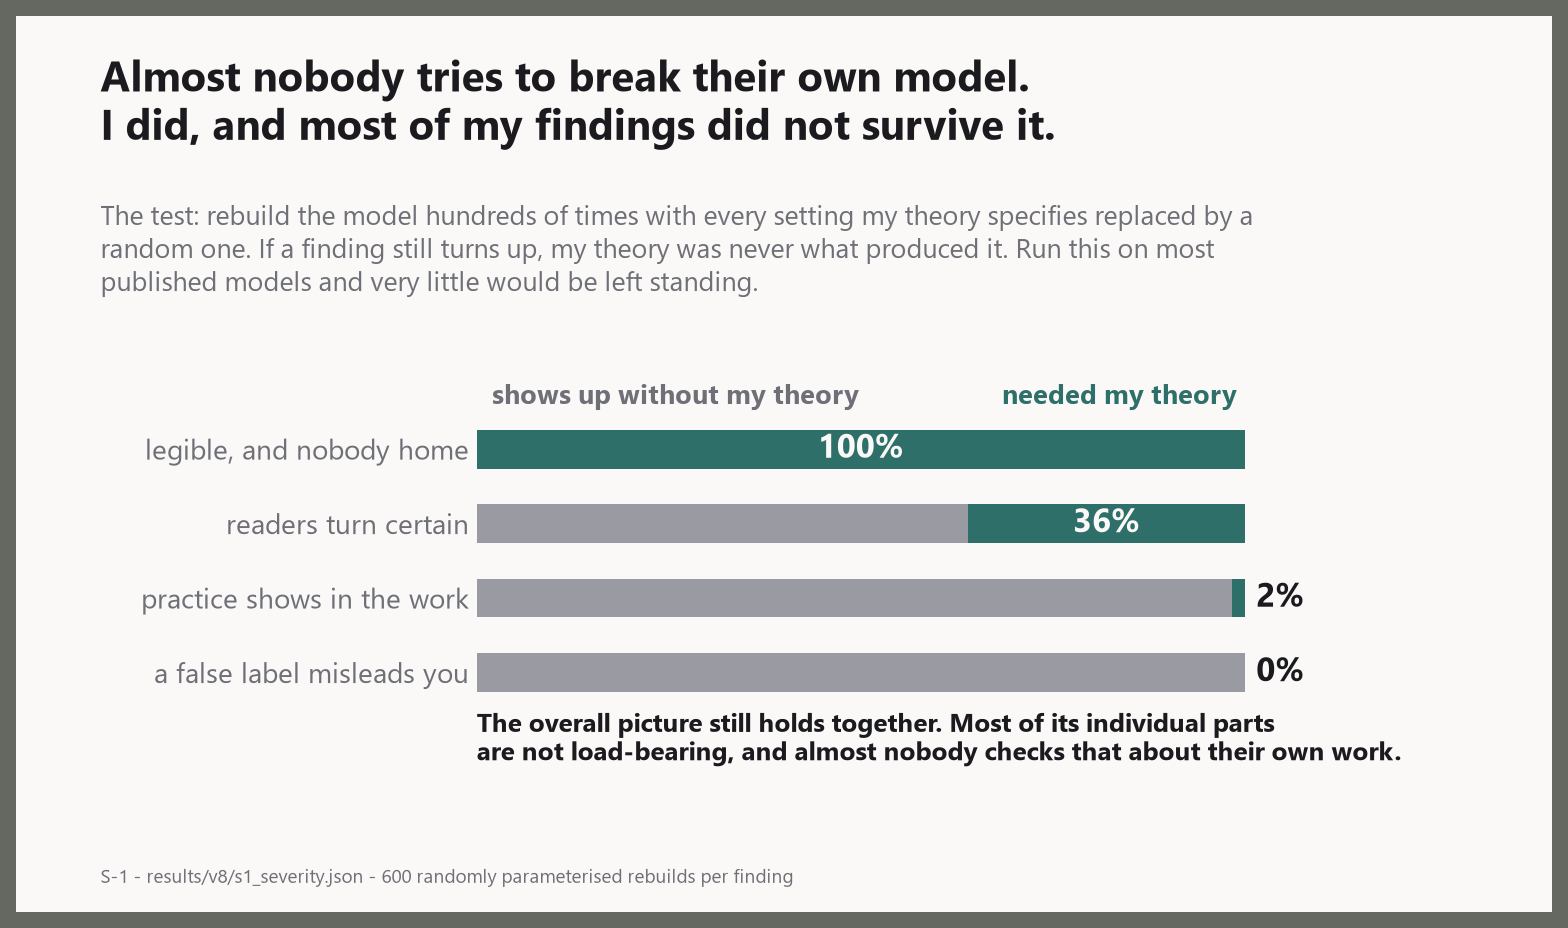
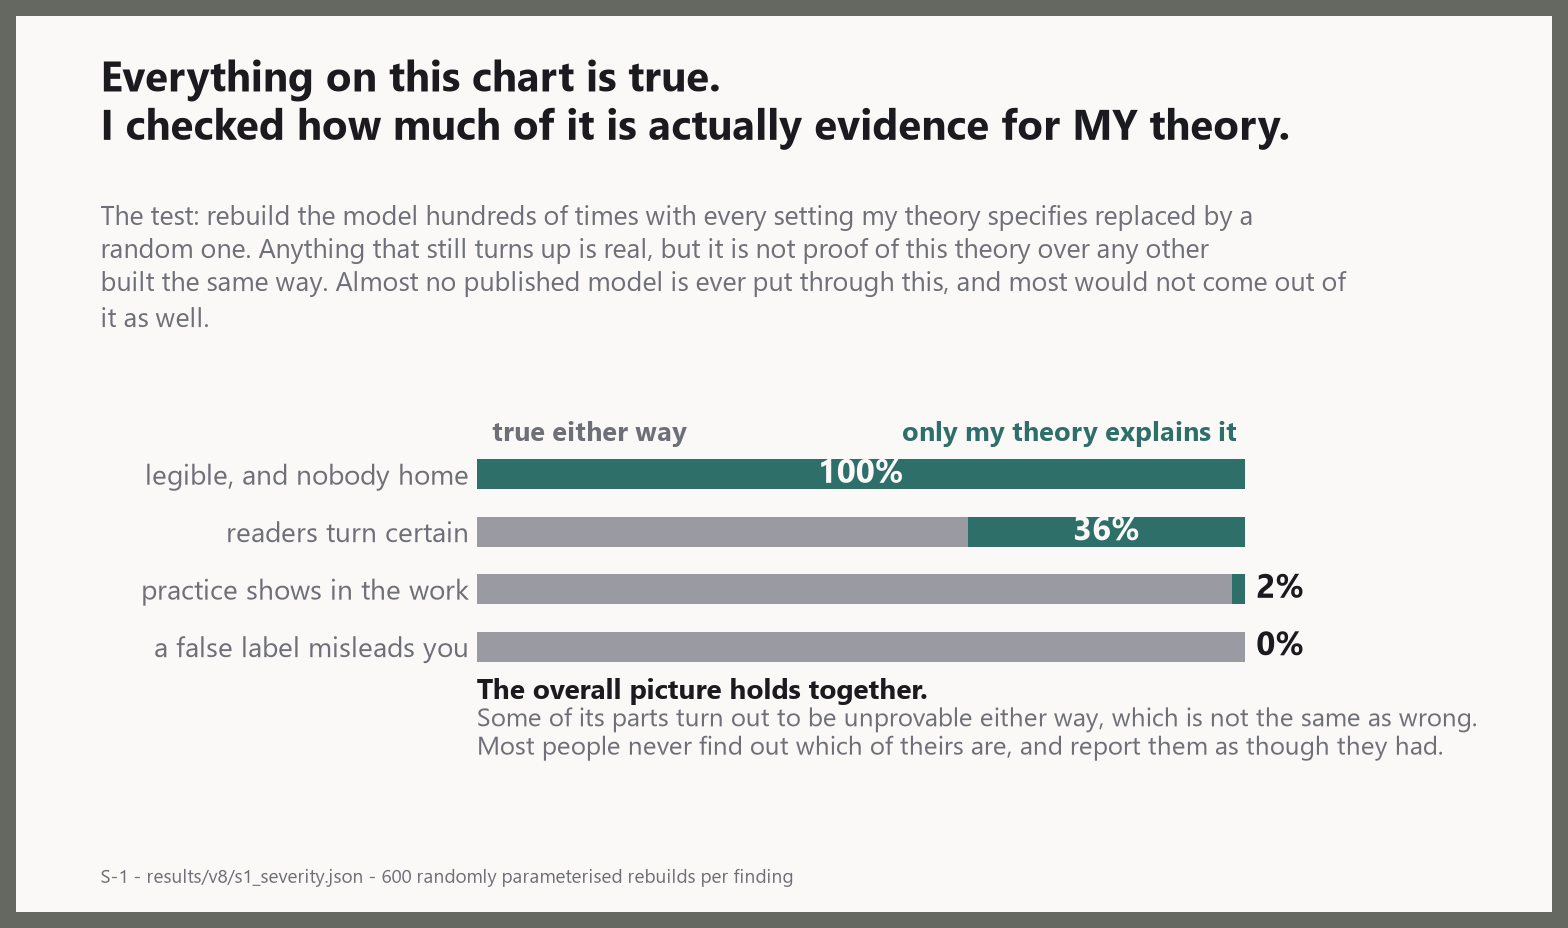
Plate 22 stops sounding like a retreat, and plate 3 shows the finding it had
PLATE 22. "Most of my findings did not survive it" was wrong, and wrong in the
direction that costs the most: it implies negative results. Nothing here failed.
Every finding on that chart is TRUE. What the test establishes is which of them
are distinguishing evidence for this theory rather than for any model built the
same way, and a grey bar means unprovable either way, not refuted.

So the title now says that: everything on the chart is true, and I checked how
much of it is actually evidence for mine. The key follows, "true either way"
against "only my theory explains it", and the subtitle carries the part that
does the work on a feed, which is that almost no published model is put through
this at all and most would not come out of it as well.

The closing line now plays the Ghost Scale on the plate itself. The claim a
person stands behind is black and bold; the qualification is grey and unbolded,
which is this repository's own mark for prose with less of a person in it. It
also says the thing that was missing: most people never find out which of their
results are unprovable, and report them as though they had.

PLATE 3 had a wrong bar and it was hiding the actual result. The faded series
showed free attention, which contradicts E19, this project's own headline that
readers KEEP paying on foreign content. E37 scores attention after a forced
phase and lands in a different regime, so the two plates were arguing with each
other in the same carousel.
[…]

Changed region(s): [[0.0938, 0.4062, 0.9375, 0.8438], [0.0625, 0.0625, 0.8125, 0.1562], [0.0625, 0.25, 0.875, 0.375]]

diff --git a/scripts/make_walkthrough_plates.py b/scripts/make_walkthrough_plates.py
@@ -115,29 +115,53 @@ def plate_03_the_wall():
     c = d["cells"]
     order = [("human", "Made by a person", HUMAN),
              ("foreign", "Built by an unconstrained\nartificial mind", COOL),
-             ("noninvertible", "Reads perfectly.\nNo one to find.", MACHINE)]
+             ("noninvertible", "Reads perfectly.\nNo one to find.\n(an almanac, a spreadsheet,\na page of specs)", MACHINE)]
+
+    # THE MEASURE CHANGED, AND THE OLD ONE WAS BURYING THE FINDING.
+    #
+    # This plate used to show how-lost-you-are beside how-much-you-kept-looking. The second bar was
+    # a problem twice over. It contradicted E19, which is this project's own headline that readers
+    # KEEP paying on foreign content, because E37 scores free attention after a forced phase and
+    # lands in a different regime. And it spent half the plate on a channel that is not what the
+    # wall is about.
+    #
+    # What the wall actually is, in E37's own numbers: foreign content leaves the reader lost AND
+    # AWARE of it. The wall leaves the reader feeling almost as settled as genuine human work while
+    # being further from the truth than the foreign case. Feeling resolved and being wrong is the
+    # signature, and it is the sentence people actually say.
+    upt = [float(c[k]["error_reduction"]) for k, _, _ in order]
     ent = [float(c[k]["final_entropy"]) for k, _, _ in order]
-    eng = [float(c[k]["engaged_fraction"]) for k, _, _ in order]
+    logn = float(np.log(4))
+    settled = [1.0 - e / logn for e in ent]
 
     fig, ax = plate(
         "\"I read every word and nobody was there\"\nis its own kind of failure.",
-        "It is not that the words are hard. Every one of them is familiar. It is that no maker can be\nreconstructed from them, and that produces a signature neither other condition does.",
-        "E37 · results/v6/e37_wall.json · how unresolved the reader is left, and how long it keeps trying")
+        "It is not that the words are hard. Every one of them is familiar. It is that no maker can "
+        "be reconstructed from them, so the reader finishes feeling settled and is further from the "
+        "truth than when it started.",
+        "E37 · results/v6/e37_wall.json · how much closer to the maker's real intent the reader ends up")
+
     xs = np.arange(3)
-    w = 0.36
-    b1 = ax.bar(xs - w / 2, ent, width=w, color=[o[2] for o in order], alpha=0.95)
-    b2 = ax.bar(xs + w / 2, eng, width=w, color=[o[2] for o in order], alpha=0.42)
+    bars = ax.bar(xs, upt, width=0.5, color=[o[2] for o in order])
+    bar_labels(ax, bars, upt, fmt="{:+.2f}", fontsize=14, color=INK)
+    zero_line(ax)
     ax.set_xticks(xs)
     ax.set_xticklabels([o[1] for o in order], fontsize=11)
-    bar_labels(ax, b1, ent, fmt="{:.2f}", fontsize=11, color=INK)
-    bar_labels(ax, b2, eng, fmt="{:.2f}", fontsize=11, color=MUTED)
-    annotate(ax, -0.32, max(ent) * 1.17, "solid bars: how confused it left you",
-             color=INK, fontsize=11, weight="bold", ha="left")
-    annotate(ax, 0.92, max(ent) * 1.17, "faded bars: how much attention you spent",
-             color=MUTED, fontsize=11, weight="bold", ha="left")
-    ax.set_ylim(0, max(ent) * 1.3)
-    clean_axis(ax)
+    ax.set_ylim(min(upt) * 1.75, max(upt) * 1.55)
+    clean_axis(ax, "closer to the truth  →\n←  further from it")
     ax.set_yticks([])
+
+    # The settled figures live in the per-bar notes rather than in a line underneath. The contrast
+    # only means anything held against its neighbour, and a separate caption made the reader carry
+    # two numbers across the plate to compare them.
+    notes = ["you learned, and you\nfelt sure. Correctly.",
+             f"you got it wrong, and you\ncould tell: felt {settled[1]:.0%} settled",
+             f"you got it MORE wrong,\nand it felt {settled[2]:.0%} settled"]
+    colours = [HUMAN, COOL, MACHINE]
+    for i, (n, col) in enumerate(zip(notes, colours)):
+        y = upt[i] + (0.30 if upt[i] > 0 else -0.30)
+        annotate(ax, i, y, n, color=col, fontsize=11.5, weight="bold", ha="center",
+                 va="bottom" if upt[i] > 0 else "top")
     record(save(fig, "03_legible_and_empty"),
            "A third kind of failure, built because the existing account did not match what people "
            "actually report about generated text.")
@@ -783,10 +807,11 @@ def plate_22_how_much_is_the_theory():
     mine = [1.0 - v for v in vals]
 
     fig, ax = plate(
-        "Almost nobody tries to break their own model.\nI did, and most of my findings did not survive it.",
+        "Everything on this chart is true.\nI checked how much of it is actually evidence for MY theory.",
         "The test: rebuild the model hundreds of times with every setting my theory specifies "
-        "replaced by a random one. If a finding still turns up, my theory was never what produced "
-        "it. Run this on most published models and very little would be left standing.",
+        "replaced by a random one. Anything that still turns up is real, but it is not proof of "
+        "this theory over any other built the same way. Almost no published model is ever put "
+        "through this, and most would not come out of it as well.",
         "S-1 - results/v8/s1_severity.json - 600 randomly parameterised rebuilds per finding")
 
     pos = ax.get_position()
@@ -806,22 +831,30 @@ def plate_22_how_much_is_the_theory():
 
     ax.set_yticks(y, labels, fontsize=12.5)
     ax.set_xlim(0, 1.20)
-    ax.set_ylim(-1.35, len(labels) + 0.16)
+    ax.set_ylim(-2.20, len(labels) + 0.16)
     clean_axis(ax, "", "")
     ax.set_xticks([])
     for s in ax.spines.values():
         s.set_visible(False)
 
-    annotate(ax, 0.02, len(labels) - 0.30, "shows up without my theory",
+    annotate(ax, 0.02, len(labels) - 0.30, "true either way",
              color=MUTED, fontsize=12, weight="bold", va="center", ha="left")
-    annotate(ax, 0.99, len(labels) - 0.30, "needed my theory",
+    annotate(ax, 0.99, len(labels) - 0.30, "only my theory explains it",
              color=HUMAN, fontsize=12, weight="bold", va="center", ha="right")
-    # The qualification belongs INSIDE the frame. In the footer it was clipped, and a caveat
-    # nobody can read is worse than no caveat at all: it looks like a claim with no limits on it.
-    annotate(ax, 0.0, -0.90,
-             "The overall picture still holds together. Most of its individual parts\n"
-             "are not load-bearing, and almost nobody checks that about their own work.",
-             color=INK, fontsize=11.5, weight="bold", va="center", ha="left")
+
+    # THE GHOST SCALE, PLAYED ON THE PLATE ITSELF. The claim a person is standing behind is black
+    # and bold. The qualification is grey, which is this repository's own mark for text with less
+    # of a person in it. The two-tone line is the argument in miniature.
+    #
+    # It lives inside the frame because in the footer it was clipped, and a caveat nobody can read
+    # is worse than no caveat: it reads as a claim with no limits on it.
+    annotate(ax, 0.0, -0.78, "The overall picture holds together.",
+             color=INK, fontsize=12.5, weight="bold", va="center", ha="left")
+    annotate(ax, 0.0, -1.52,
+             "Some of its parts turn out to be unprovable either way, which is not the same as "
+             "wrong.\nMost people never find out which of theirs are, and report them as though "
+             "they had.",
+             color=MUTED, fontsize=11.5, weight="normal", va="center", ha="left")
 
     record(save(fig, "22_how_much_is_the_theory"),
            "Almost nobody publishes this number about their own work. It costs the project its "
